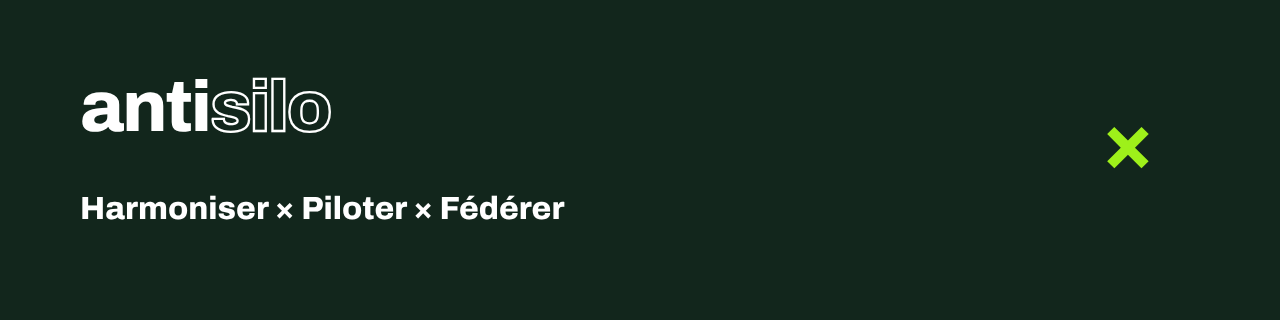
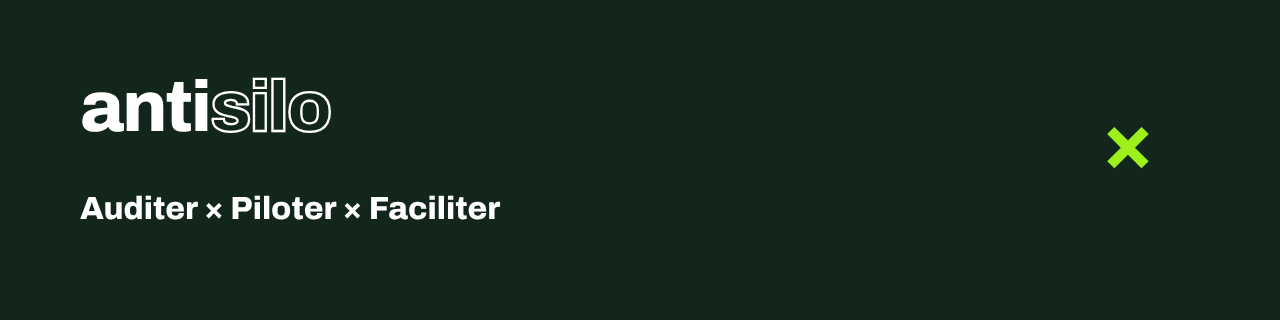
Offres Auditer, Piloter, Faciliter (#2)
* Offres Auditer, Piloter, Faciliter dans le profil

* Bannière : Auditer × Piloter × Faciliter

Changed region(s): [[0.0625, 0.5938, 0.4375, 0.6875]]

diff --git a/profile/README.md b/profile/README.md
@@ -2,8 +2,8 @@
 
 Antisilo aide les groupes, les ETI et les acteurs publics à piloter leurs sites WordPress.
 
-- **Harmoniser** : un audit de parc, pour savoir ce qui existe et par où commencer.
+- **Auditer** : un audit de parc, pour savoir ce qui existe et par où commencer.
 - **Piloter** : Jason Rouet devient votre responsable de digital factory à temps partagé.
-- **Fédérer** : un atelier sur vos cas réels, pour que vos équipes écrivent elles-mêmes leurs règles.
+- **Faciliter** : un atelier pour remettre à plat la chaîne de vos demandes, de la marque à l’IT et aux prestataires.
 
 Pour en parler : https://antisilo.pm
